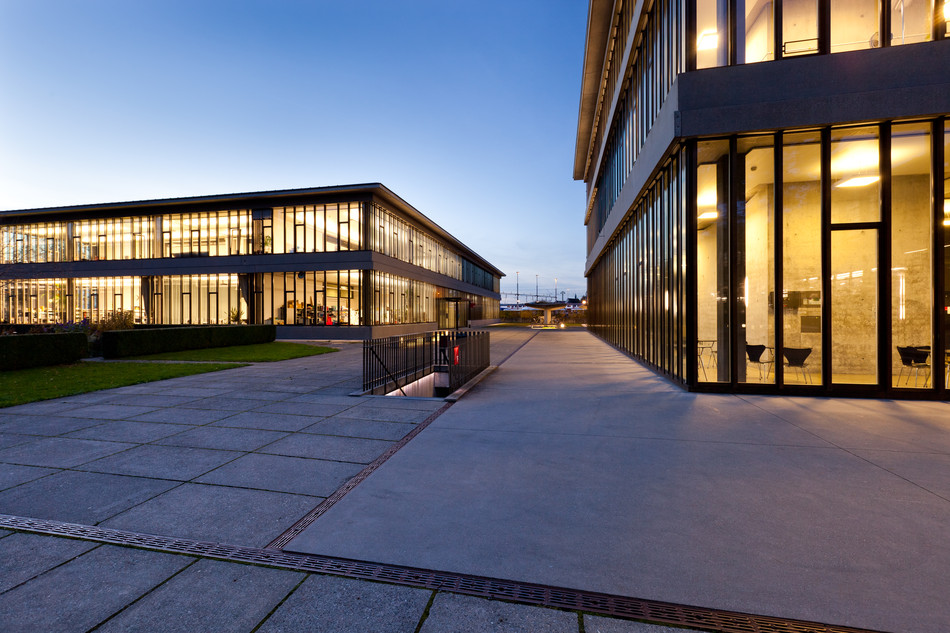
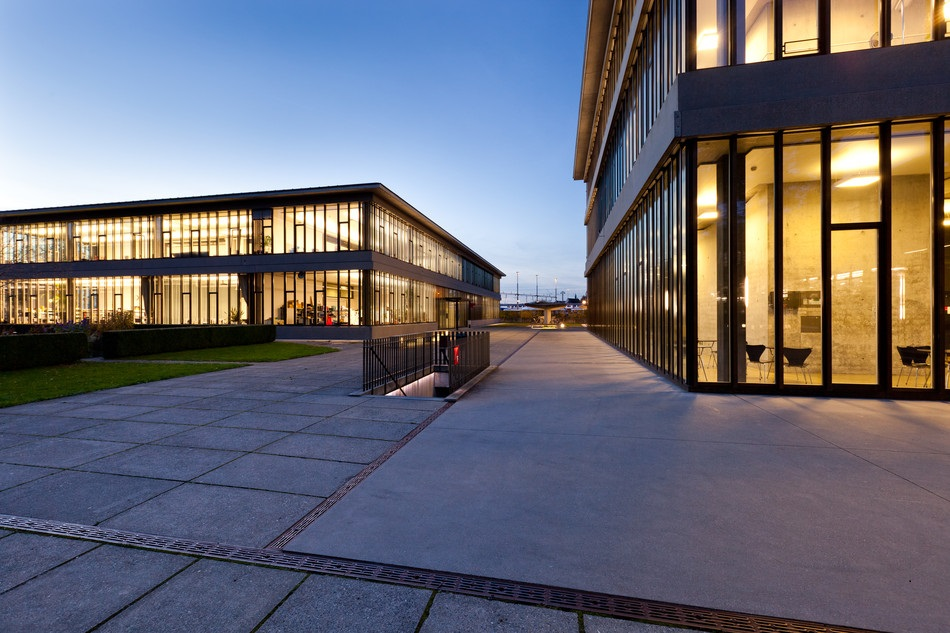
casesensitiv

diff --git a/sections/Einleitung.tex b/sections/Einleitung.tex
@@ -5,7 +5,7 @@ Lorem\marg{Ausgangssituation} Lorem dolor sit amet, consetetur sadipscing elitr,
 
 \begin{figure}[ht]
 	\centering
-	\includegraphics[width=0.6\textwidth]{images/HSR.jpg}
+	\includegraphics[width=0.6\textwidth]{images/hsr.jpg}
 	\caption{\acs{HSR} \autocite{IR}}
 	\label{fig:HSR}
 \end{figure}
